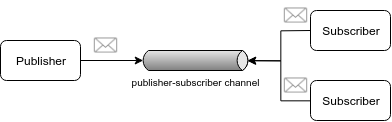
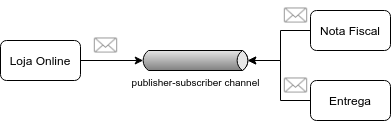
AMQP e RabbitMQ

diff --git a/10-mensageria-e-eventos.md b/10-mensageria-e-eventos.md
@@ -80,8 +80,9 @@ Existem diversos Message Brokers no mercado, entre eles:
 - [TIBCO Messaging](https://www.tibco.com/)
 - [Microsoft BizTalk Server](https://docs.microsoft.com/en-us/biztalk/)
 - [AWS Simple Queue Service](https://aws.amazon.com/pt/sqs/), uma solução mais limitada
-- [RabbitMQ](https://www.rabbitmq.com/)
-- [Apache Kafka](https://kafka.apache.org/), que pode ter diversas outras responsabilidades
+- [RabbitMQ](https://www.rabbitmq.com/), implementado em Erlang
+- [Apache ActiveMQ](http://activemq.apache.org/), que tem a versão "clássica" e a Artemis, baseada no antigo HornetQ da JBoss/Red Hat
+- [Apache Kafka](https://kafka.apache.org/), que, além de um Message Broker, pode ser usado de outras maneiras
 
 Um broker possui Canais (em inglês, **Channels**), caminhos lógicos que conectam os programas e transmitem mensagens.
 
@@ -90,6 +91,8 @@ Um broker possui Canais (em inglês, **Channels**), caminhos lógicos que conect
 Um remetente (em inglês, **Sender**) ou produtor (em inglês, **Producer**) é um programa que envia uma mensagem a um Channel.
  
 Um receptor (em inglês, **Receiver**) ou consumidor (em inglês, **Consumer**) é um programa que recebe uma mensagem lendo, e excluindo, de um Channel.
+
+Um Consumer que filtra as mensagens de um Channel, recebendo apenas as que atendem a um determinado critério são chamados de **Selective Consumers**.
 
 ![Conceitos de mensageria {w=55}](imagens/10-mensageria-e-eventos/conceitos-de-mensageria.png)
 
@@ -130,8 +133,8 @@ Os autores listam também alguns desafios:
 
 Os autores do livro [Enterprise Integration Patterns](https://www.amazon.com.br/Enterprise-Integration-Patterns-Designing-Deploying/dp/0321200683) (HOHPE; WOOLF, 2003), classificam os Message Channels em dois tipos:
 
-- Point-to-Point Channel
-- Publisher-Subscriber Channel
+- Point-to-Point Channel, análogo a uma conversa um-a-um no WhatsApp
+- Publisher-Subscriber Channel, análogo a um grupo do 
 
 ### Point-to-Point Channel
 
@@ -210,6 +213,54 @@ Richardson cita três passos principais:
 Cada item identificado tem uma cor específica de post-it.
 
 O resultado é um um Domain Model centrado em Aggregates e Domain Events.
+
+## Protocolos de Mensageria e AMQP
+
+Existem diferentes protocolos de Mensageria. Entre eles:
+
+- _STOMP_ (Simple Text-Oriented Messaging Protocol): um protocolo baseado em texto, com alguma similaridade com o HTTP. Possui clientes em diversas linguagens, incluindo JavaScript com WebSocket, que é executado diretamente em navegadores. Diversos Message Brokers implementam esse protocolo, incluindo ActiveMQ (nas versões clássica e Artemis) e RabbitMQ.
+- _MQTT_ (Message Queue Telemetry Transport): focado em IoT, é um protocolo binário muito eficiente e compacto que foi projetado para redes de alta latência e pouca banda como links de satélite e conexões discadas. Só é compatível com Publisher-Subscriber Channels. ActiveMQ (nas duas versões) e RabbitMQ também dão suporte a esse protocolo. É uma especificação mantida pela ISO e OASIS.
+- _AMQP (Advanced Message Queuing Protocol)_: um protocolo bastante abrangente. Há suporte a Point-to-Point e Publisher-Subscriber Channels, além de outros modelos de Mensageria. Na versão 1.0, significativamente diferente da 0-9-1, foi padronizado pela ISO e OASIS. Focado em Confiabilidade e Segurança, é implementado por diversos Message Brokers, como o RabbitMQ (AMQP 0-9-1) e ambas as versões do ActiveMQ (AMQP 1.0).
+
+> **O JMS é um protocolo ou uma API?**
+>
+> O JMS (Java Message Service), especificado no Java EE,  não é um protocolo, mas uma API. Dessa forma, define uma série de abstrações, interfaces e classes utilitárias a serem implementadas em Java pelos fornecedores de Message Brokers. Cada fornecedor pode usar um protocolo diferentes e, por isso, disponibilizam JARs que implementam os detalhes de comunicação.
+
+## RabbitMQ e AMQP
+
+RabbitMQ implementa, além dos protocolos STOMP e MQTT, a versão 0-9-1 do protocolo AMQP. A implementação foi feita em Erlang pela empresa Rabbit Technologies, posteriormente adquirida pela SpringSource/Pivotal.
+
+A versão 0-9-1 do AMQP traz algumas terminologias e conceitos diferentes dos patterns estudados anteriormente.
+
+Por exemplo, no AMQP 0-9-1, channels são várias conexões leves que compartilham uma mesma conexão TCP.
+
+Quem produz as mensagens é chamado de **Publisher** (e não Producer), independente do destino ser um Point-to-Point Channel ou um Publisher-Subscriber Channel.
+
+As mensagens não são publicadas diretamente em um Point-to-Point ou em um Publisher-Subscriber Channel, mas em uma abstração chamada **Exchange**. Dessa forma, um Publisher no AMQP não sabe o tipo de Channel que será utilizado.
+
+A configuração do tipo de Message Channel passa a ser responsabilidade do Message Broker, o que é chamado de _roteamento_. O roteamento é feito, a partir de um Exchange, para um ou mais Point-to-Point Channels chamados de **Queues**, de acordo com regras chamadas **Bindings**. Os **Consumers** recebem mensagens dessas Queues. Um Binding pode ter, opcionalmente, uma _routing key_ que irá influenciar qual Queue recebe uma dada mensagem.
+
+![Conceitos do AMQP {w=67}](imagens/10-mensageria-e-eventos/amqp-conceitos.png)
+
+> O AMQP 0-9-1 é um protocolo "programável" em que a própria aplicação pode criar Exchanges, Bindings e Queues, não apenas o administrador do Message Broker.
+
+Tanto um Exchange como uma Queue podem ter diversos atributos. Entre os mais importantes:
+
+- Nome
+- Durabilidade (em inglês, _Durability_): se for durável, o Exchange não é apagado após uma reinicialização do Message Broker; se for transiente, é preciso redeclará-lo toda vez que o Broker é reiniciado.
+- _Auto-delete_: o Exchange é removido quando a última Queue de um consumidor é desconectado
+
+Um Exchange também pode ter diferentes tipos:
+
+- _Direct Exchange_: faz a entrega de mensagens com base em uma routing key da mensagem, roteando para uma Queue com a mesma routing key. É uma implementação do pattern Selective Consumer. Caso haja múltiplas instâncias da mesma aplicação como Consumers da Queue, é feito um Load Balancing no estilo Round-Robin, implementando o pattern Competing Consumers.
+- _Default Exchange_: um Exchange sem nome, é um caso especial de Direct Exchange, em que é feito o Binding automaticamente com todas as Queues com uma routing key com o mesmo nome da Queue. Uma mensagem que contém como routing key o nome de uma Queue é roteada diretamente para a Queue. Parece um Point-to-Point Channel em que uma mensagem é enviada diretamente a uma Queue, mas tecnicamente não é o que acontece.
+- _Fanout Exchange_: as routing keys são ignoradas. Quando uma mensagem é enviada a um determinado Exchange desse tipo, todas as Queues com Bindings receberão uma cópia da mensagem. Implementa um Publisher-Subscriber Channel.
+- _Topic Exchange_: as mensagens são roteadas a todas as Queues que atendem a algum critério de filtragem,É uma implementação de um Publisher-Subscriber Channel com Selective Consumers.
+- _Headers Exchange_: ignoram routing keys, usando um ou mais atributos do cabeçalho das mensagens para o roteamento.  
+
+O RabbitMQ já vem com alguns Exchanges de cada tipo como `amq.direct`, `(AMQP default)`, `amq.fanout`, `amq.topic` e `amq.headers`.
+
+Mais informações na documentação do RabbitMQ: https://www.rabbitmq.com/tutorials/amqp-concepts.html
 
 ## Exercício: configurando o RabbitMQ no Docker
 
